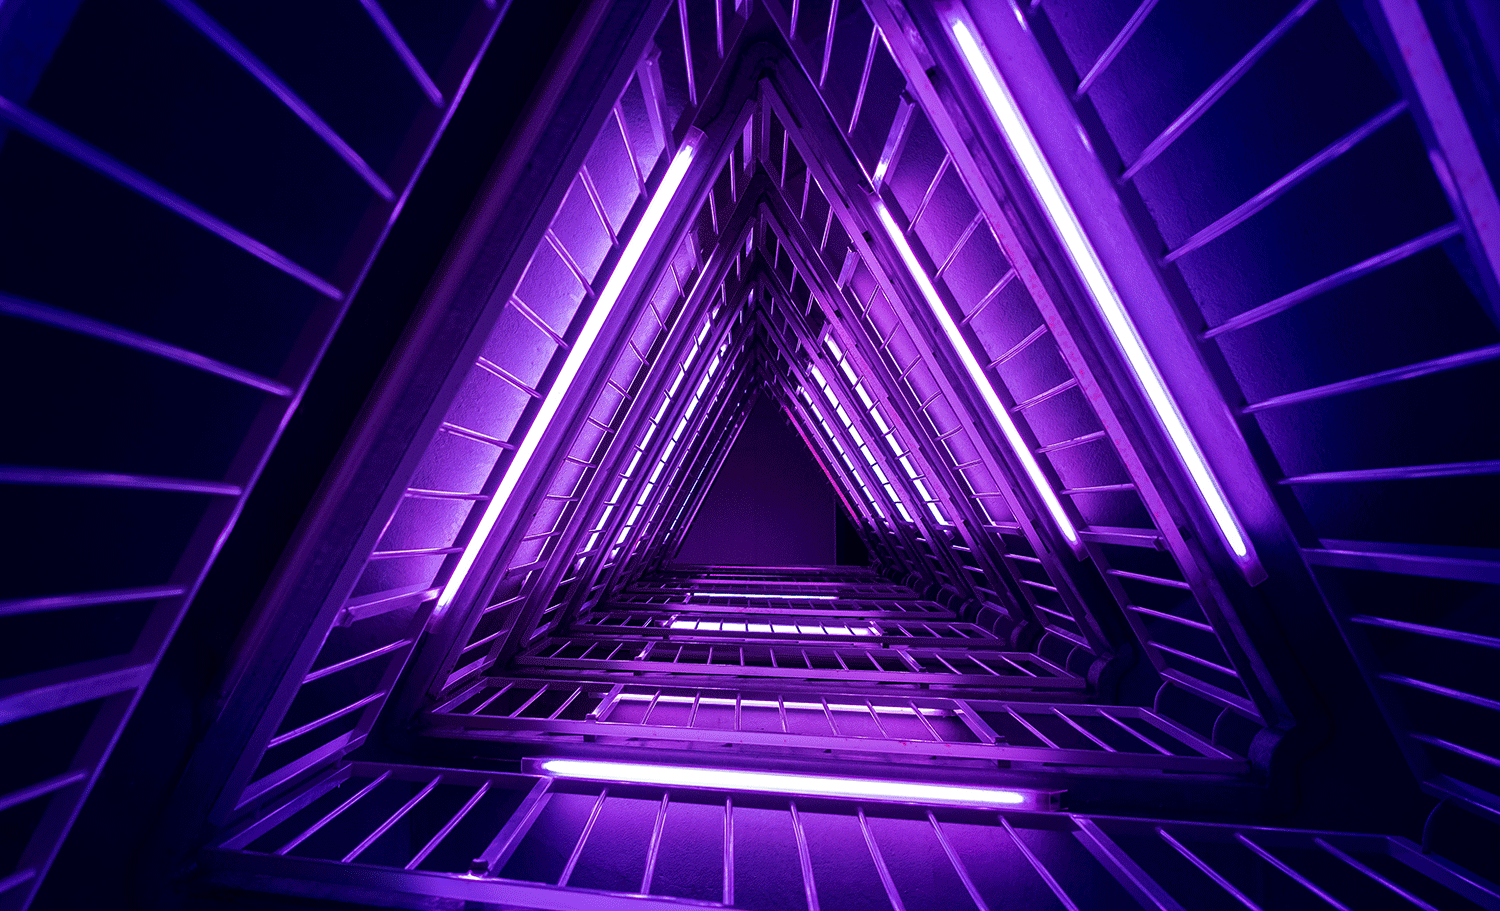
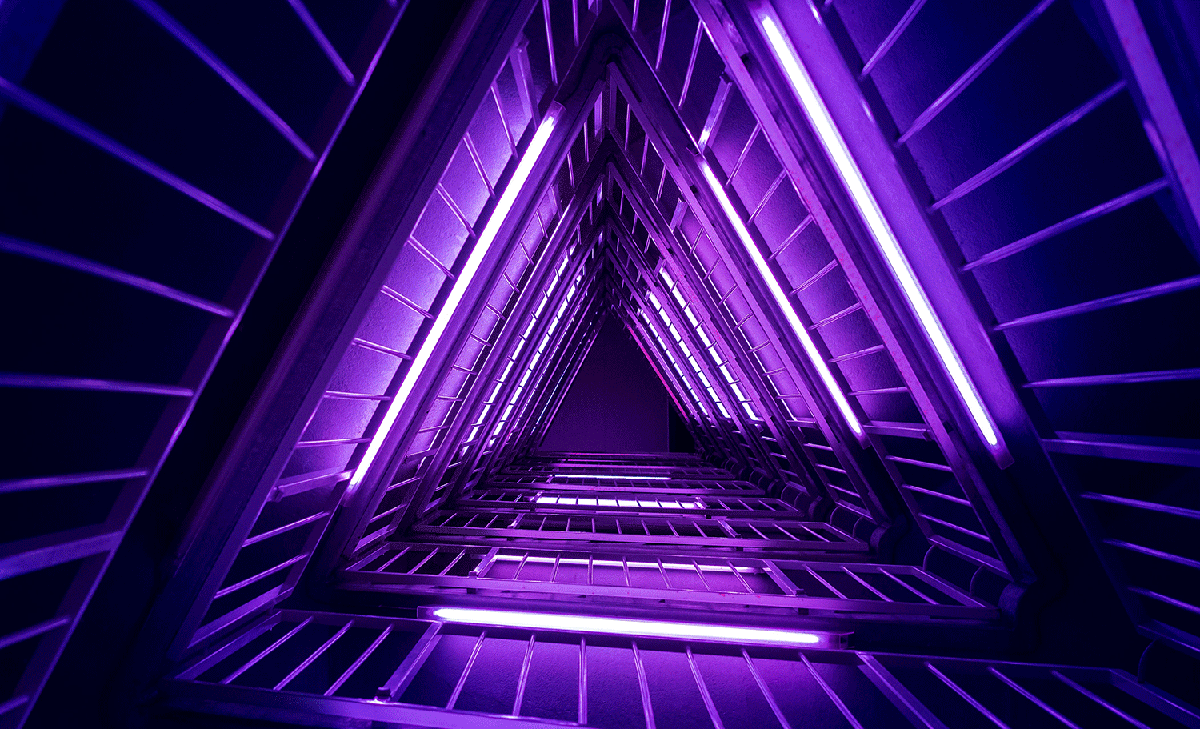
new build, deployed october 8,2020

diff --git a/my-react-website/build/static/js/main.ee2d8bd6.chunk.js b/my-react-website/build/static/js/main.ee2d8bd6.chunk.js
@@ -1,0 +1,2 @@
[1 lines of base64/hex data omitted]
+//# sourceMappingURL=main.ee2d8bd6.chunk.js.map

diff --git a/my-react-website/build/static/css/main.9bfcb8ff.chunk.css b/my-react-website/build/static/css/main.9bfcb8ff.chunk.css
@@ -1,0 +1,2 @@
+@import url(https://fonts.googleapis.com/css2?family=Lobster&family=Roboto&display=swap);@import url(https://fonts.googleapis.com/css2?family=Rock+Salt&display=swap);@import url(https://cdnjs.cloudflare.com/ajax/libs/animate.css/4.1.1/animate.min.css);body{margin:0;-webkit-font-smoothing:antialiased;-moz-osx-font-smoothing:grayscale}code{font-family:source-code-pro,Menlo,Monaco,Consolas,"Courier New",monospace}html{min-height:100%}body{height:100%;font-family:"Roboto",sans-serif;font-size:18px}button{padding:16px;font-size:16px;background-color:#000;color:#fff;border-radius:8px;cursor:pointer}h3,h4{margin-bottom:0}.clearfix{clear:both}.fade-appear,.fade-enter{opacity:0;z-index:1}.fade-appear-active,.fade-enter.fade-enter-active{opacity:1;transition:opacity .5s linear .15s}.fade-exit{opacity:1}.fade-exit.fade-exit-active{opacity:0;transition:opacity .15s linear}#page-body{max-width:950px;min-height:auto;margin:auto;padding:64px 25px 25px}.page-title{font-family:"Rock Salt",cursive;font-size:1.75em;margin-bottom:0;color:#000}.underline{color:#000;text-decoration:none;border-bottom:none;position:relative}.underline:after{content:"";width:100%;position:absolute;left:0;bottom:-1px;height:3px;background:#cc3b8b;background:linear-gradient(90deg,#421575,#cc3b8b)}.projectImg{width:100%;height:300px;object-fit:cover}.grid-container{height:auto;display:grid;grid-template-columns:repeat(auto-fit,minmax(310px,1fr));grid-gap:1rem;padding-bottom:50px;padding-top:0;margin:0 auto}.grid-item{height:467px;max-width:400px;margin:50px auto 0}.project-title{font-family:"Rock Salt",cursive;font-size:1.2em;color:#cc3b8b}.project-desc,.project-title{margin-bottom:20px;text-align:left}.project-desc{height:auto}.project-icon{font-size:25px}.display-none{display:none}.fa-icon{margin:10px;left:-8px;position:relative}a{color:#000}a:hover{color:#cc3b8b}nav ul{list-style-type:none;margin:0;padding:0}nav a{text-decoration:none;color:#000;font-weight:700;padding:16px 32px}nav a:hover{color:#cc3b8b}nav .desktop-nav{text-align:right;position:relative;top:0;width:100%;background:transparent;z-index:99}.logo{margin-left:20px;margin-top:10px}.desktop-li{display:inline-block;padding-top:16px;padding-bottom:16px;list-style:none}.res-menu{font-size:30px;vertical-align:middle;text-align:center;color:#000}.burger-btn{width:50px;height:50px;background:transparent;border:none;display:none;position:fixed;top:0;right:30px;z-index:100}.side-menu{display:block;background-color:#fff;box-shadow:2px 0 5px rgba(0,0,0,.5);width:300px;height:100vh;top:0;right:0;position:fixed;z-index:99;-webkit-transform:translateX(100%);transform:translateX(100%);transition:-webkit-transform .3s ease-out;transition:transform .3s ease-out;transition:transform .3s ease-out,-webkit-transform .3s ease-out}.side-menu.open{-webkit-transform:translateX(0);transform:translateX(0)}.back-drop{position:fixed;width:100%;height:100vh;background:rgba(0,0,0,.8);top:0;right:0;z-index:98;transition:.3s ease-out}.mobile-ul{margin-top:50px}.mobile-li{display:block;padding:20px}@media only screen and (max-width:770px){.burger-btn{display:block}.desktop-nav{display:none}}@media only screen and (min-width:771px){.back-drop,.side-menu{display:none}}.home-container{max-width:895px}.hacky-block{min-height:465px}.title-txt{margin:auto;width:100%;font-size:6vw;text-align:center;color:#000;text-shadow:2px 2px 4px #3b2a32;font-family:"Rock Salt",cursive}.sub-title{font-size:3vw;text-align:center;color:#cc3b8b}.vertical-align-middle{position:absolute;left:25%;top:50%;-webkit-transform:translateY(-50%);transform:translateY(-50%)}.dkNav,.ltNav{color:#000}.square{background-image:linear-gradient(90deg,#cc3b8b,#421575,#cc3b8b,#421575);box-shadow:2px 2px 4px #3b2a32;width:200px;font-size:16px;font-weight:600;color:#fff;cursor:pointer;margin:20px;height:55px;text-align:center;border:none}button:active,button:focus{outline:none}.center-align{text-align:center}.switch-off{text-shadow:0 0 10px #fff,0 0 20px #fff,0 0 30px #f696e0,0 0 40px #f77cd6,0 0 50px #e154b4,0 0 60px #db4292,0 0 70px #cc3b8b;box-shadow:0 0 55px 20px #f77cd6;-webkit-animation:btnGlow 3s ease-in-out infinite alternate;animation:btnGlow 3s ease-in-out infinite alternate}.switch-off,.switch-on{background-size:300% 100%;moz-transition:all .4s ease-in-out;transition:all .4s ease-in-out;border-radius:50px}.switch-off:hover,.switch-on:hover{background-position:100% 0;moz-transition:all .4s ease-in-out;transition:all .4s ease-in-out}.bg-light{position:absolute;top:0;left:0;width:100vw;height:100vh;z-index:0;transition:background-color .5s ease}.light-off{background-color:#000;background-image:url(/static/media/purpleneon.cbc9a051.png);color:#fff}.light-off,.light-on{width:100vw;height:100vh;background-repeat:no-repeat;background-position:50%;background-size:cover}.light-on{background-color:#fff;color:#000;background-image:url(/static/media/whitewall.2ca2f4d3.png)}.textGlow{color:#fff;text-shadow:0 0 10px #fff,0 0 20px #fff,0 0 30px #f696e0,0 0 40px #f77cd6,0 0 50px #e154b4,0 0 60px #db4292,0 0 70px #cc3b8b;-webkit-animation:textGlow 1s ease-in-out infinite;animation:textGlow 1s ease-in-out infinite}@-webkit-keyframes textGlow{0%{text-shadow:0 0 10px #fff,0 0 20px #fff,0 0 30px #f696e0,0 0 40px #f77cd6,0 0 50px #e154b4,0 0 60px #db4292,0 0 70px #cc3b8b}to{text-shadow:0 0 20px #fff,0 0 30px #ff4da6,0 0 40px #ff4da6,0 0 50px #ff4da6,0 0 60px #ff4da6,0 0 70px #ff4da6,0 0 80px #cc3b8b}}@-webkit-keyframes btnGlow{0%{background-color:#fff}20%{background-color:#f696e0}40%{background-color:#f77cd6}60%{background-color:#e154b4}80%{background-color:#db4292}to{background-color:#cc3b8b}}.aboutImg{width:250px;height:250px;border-top-left-radius:50% 50%;border-top-right-radius:50% 50%;border-bottom-right-radius:50% 50%;border-bottom-left-radius:50% 50%;object-fit:cover;display:block;margin:75px auto}.icon-container{margin:75px;text-align:center}.about-icon{font-size:40px;padding:10px;color:#000;margin:0 auto}.about-icon:hover{color:#bd2453}.arch-project-img{width:100%;height:200px;object-fit:cover;background-position:10% 50%}.arch-grid-container{display:grid;grid-template-columns:repeat(auto-fit,minmax(220px,1fr));grid-gap:1rem}footer{height:60px;width:100%;background-color:transparent;color:#767676;text-align:center;position:relative;left:0;bottom:0;right:0;z-index:2}
+/*# sourceMappingURL=main.9bfcb8ff.chunk.css.map */

diff --git a/my-react-website/build/index.html b/my-react-website/build/index.html
@@ -1,3 +1,3 @@
 <!doctype html><html lang="en"><head><meta charset="utf-8"/><link rel="icon" href="/favicon.ico"/><meta name="viewport" content="width=device-width,initial-scale=1"/><meta name="theme-color" content="#000000"/><meta name="description" content="Web site created using create-react-app"/><link rel="apple-touch-icon" href="/logo192.png"/><link rel="manifest" href="/manifest.json"/><title>Portfolio 2020</title><!--[if lt IE 9]>
     <script src="http://html5shim.googlecode.com/svn/trunk/html5.js"></script>
-    <![endif]--><link href="/static/css/main.9cbaf2a1.chunk.css" rel="stylesheet"></head><body><noscript>You need to enable JavaScript to run this app.</noscript><div id="root"></div><script>!function(e){function t(t){for(var n,i,l=t[0],a=t[1],f=t[2],p=0,s=[];p<l.length;p++)i=l[p],Object.prototype.hasOwnProperty.call(o,i)&&o[i]&&s.push(o[i][0]),o[i]=0;for(n in a)Object.prototype.hasOwnProperty.call(a,n)&&(e[n]=a[n]);for(c&&c(t);s.length;)s.shift()();return u.push.apply(u,f||[]),r()}function r(){for(var e,t=0;t<u.length;t++){for(var r=u[t],n=!0,l=1;l<r.length;l++){var a=r[l];0!==o[a]&&(n=!1)}n&&(u.splice(t--,1),e=i(i.s=r[0]))}return e}var n={},o={1:0},u=[];function i(t){if(n[t])return n[t].exports;var r=n[t]={i:t,l:!1,exports:{}};return e[t].call(r.exports,r,r.exports,i),r.l=!0,r.exports}i.m=e,i.c=n,i.d=function(e,t,r){i.o(e,t)||Object.defineProperty(e,t,{enumerable:!0,get:r})},i.r=function(e){"undefined"!=typeof Symbol&&Symbol.toStringTag&&Object.defineProperty(e,Symbol.toStringTag,{value:"Module"}),Object.defineProperty(e,"__esModule",{value:!0})},i.t=function(e,t){if(1&t&&(e=i(e)),8&t)return e;if(4&t&&"object"==typeof e&&e&&e.__esModule)return e;var r=Object.create(null);if(i.r(r),Object.defineProperty(r,"default",{enumerable:!0,value:e}),2&t&&"string"!=typeof e)for(var n in e)i.d(r,n,function(t){return e[t]}.bind(null,n));return r},i.n=function(e){var t=e&&e.__esModule?function(){return e.default}:function(){return e};return i.d(t,"a",t),t},i.o=function(e,t){return Object.prototype.hasOwnProperty.call(e,t)},i.p="/";var l=this["webpackJsonpmy-react-website"]=this["webpackJsonpmy-react-website"]||[],a=l.push.bind(l);l.push=t,l=l.slice();for(var f=0;f<l.length;f++)t(l[f]);var c=a;r()}([])</script><script src="/static/js/2.d9efbc21.chunk.js"></script><script src="/static/js/main.feb8888c.chunk.js"></script></body></html>
+    <![endif]--><link href="/static/css/main.9bfcb8ff.chunk.css" rel="stylesheet"></head><body><noscript>You need to enable JavaScript to run this app.</noscript><div id="root"></div><script>!function(e){function t(t){for(var n,i,l=t[0],a=t[1],f=t[2],p=0,s=[];p<l.length;p++)i=l[p],Object.prototype.hasOwnProperty.call(o,i)&&o[i]&&s.push(o[i][0]),o[i]=0;for(n in a)Object.prototype.hasOwnProperty.call(a,n)&&(e[n]=a[n]);for(c&&c(t);s.length;)s.shift()();return u.push.apply(u,f||[]),r()}function r(){for(var e,t=0;t<u.length;t++){for(var r=u[t],n=!0,l=1;l<r.length;l++){var a=r[l];0!==o[a]&&(n=!1)}n&&(u.splice(t--,1),e=i(i.s=r[0]))}return e}var n={},o={1:0},u=[];function i(t){if(n[t])return n[t].exports;var r=n[t]={i:t,l:!1,exports:{}};return e[t].call(r.exports,r,r.exports,i),r.l=!0,r.exports}i.m=e,i.c=n,i.d=function(e,t,r){i.o(e,t)||Object.defineProperty(e,t,{enumerable:!0,get:r})},i.r=function(e){"undefined"!=typeof Symbol&&Symbol.toStringTag&&Object.defineProperty(e,Symbol.toStringTag,{value:"Module"}),Object.defineProperty(e,"__esModule",{value:!0})},i.t=function(e,t){if(1&t&&(e=i(e)),8&t)return e;if(4&t&&"object"==typeof e&&e&&e.__esModule)return e;var r=Object.create(null);if(i.r(r),Object.defineProperty(r,"default",{enumerable:!0,value:e}),2&t&&"string"!=typeof e)for(var n in e)i.d(r,n,function(t){return e[t]}.bind(null,n));return r},i.n=function(e){var t=e&&e.__esModule?function(){return e.default}:function(){return e};return i.d(t,"a",t),t},i.o=function(e,t){return Object.prototype.hasOwnProperty.call(e,t)},i.p="/";var l=this["webpackJsonpmy-react-website"]=this["webpackJsonpmy-react-website"]||[],a=l.push.bind(l);l.push=t,l=l.slice();for(var f=0;f<l.length;f++)t(l[f]);var c=a;r()}([])</script><script src="/static/js/2.d9efbc21.chunk.js"></script><script src="/static/js/main.ee2d8bd6.chunk.js"></script></body></html>

diff --git a/my-react-website/src/components/DesignProjectList.js b/my-react-website/src/components/DesignProjectList.js
@@ -13,9 +13,9 @@ const DesignProjectList = ({ designProjects }) => (
         <img className="projectImg" src={designProjects.image} alt={designProjects.alt}/>
         <h3 className="project-title">{designProjects.title}</h3>
         <p className="project-desc">{designProjects.content[0]}</p>
-        <a className={designProjects.codepen == '' ? "display-none" : "fa-icon project-icon" } target="_blank" rel="noopener noreferrer" aria-label="Codepen external link" href={designProjects.codepen}><FontAwesomeIcon icon={faCodepen} /></a>
-        <a className={designProjects.dribbble == '' ? "display-none" : "fa-icon project-icon" } target="_blank" rel="noopener noreferrer" aria-label="Dribble external link" href={designProjects.dribbble}><FontAwesomeIcon icon={faDribbble} /></a>
-        <a className={designProjects.github == '' ? "display-none" : "fa-icon project-icon" } target="_blank" rel="noopener noreferrer" aria-label="Codepen external link" href={designProjects.github}><FontAwesomeIcon icon={faGithubAlt} /></a>
+        <a className={designProjects.codepen === '' ? "display-none" : "fa-icon project-icon" } target="_blank" rel="noopener noreferrer" aria-label="Codepen external link" href={designProjects.codepen}><FontAwesomeIcon icon={faCodepen} /></a>
+        <a className={designProjects.dribbble === '' ? "display-none" : "fa-icon project-icon" } target="_blank" rel="noopener noreferrer" aria-label="Dribble external link" href={designProjects.dribbble}><FontAwesomeIcon icon={faDribbble} /></a>
+        <a className={designProjects.github === '' ? "display-none" : "fa-icon project-icon" } target="_blank" rel="noopener noreferrer" aria-label="Codepen external link" href={designProjects.github}><FontAwesomeIcon icon={faGithubAlt} /></a>
       </div>
     </section>
 

diff --git a/my-react-website/build/precache-manifest.dc34eb9ace4df421b1069304644b598b.js b/my-react-website/build/precache-manifest.dc34eb9ace4df421b1069304644b598b.js
@@ -1,11 +1,11 @@
 self.__precacheManifest = (self.__precacheManifest || []).concat([
   {
-    "revision": "d935c9daac422506f081ea30d9294395",
+    "revision": "50c0246692e27c93948ee16edbebdca1",
     "url": "/index.html"
   },
   {
-    "revision": "d0c0b795da5e027cfb0d",
-    "url": "/static/css/main.9cbaf2a1.chunk.css"
+    "revision": "8eedb3ca000c32771a36",
+    "url": "/static/css/main.9bfcb8ff.chunk.css"
   },
   {
     "revision": "c7db18537cc6d3591d69",
@@ -16,8 +16,8 @@ self.__precacheManifest = (self.__precacheManifest || []).concat([
     "url": "/static/js/2.d9efbc21.chunk.js.LICENSE.txt"
   },
   {
-    "revision": "d0c0b795da5e027cfb0d",
-    "url": "/static/js/main.feb8888c.chunk.js"
+    "revision": "8eedb3ca000c32771a36",
+    "url": "/static/js/main.ee2d8bd6.chunk.js"
   },
   {
     "revision": "40e62b8a60612a764242",
@@ -60,15 +60,15 @@ self.__precacheManifest = (self.__precacheManifest || []).concat([
     "url": "/static/media/pokemon.aeccf9e3.png"
   },
   {
-    "revision": "ab9393813073b877175bcd837949257f",
-    "url": "/static/media/purpleneon.ab939381.png"
+    "revision": "cbc9a05174f6d336663137d4c9b4f090",
+    "url": "/static/media/purpleneon.cbc9a051.png"
   },
   {
     "revision": "b0e5a42324de7fa9da4273087ae39666",
     "url": "/static/media/purplewall.b0e5a423.png"
   },
   {
-    "revision": "6c17f078e0ef72993aa22ad4d47be79e",
-    "url": "/static/media/whitewall.6c17f078.png"
+    "revision": "2ca2f4d3ebb615e82443b3dc5f4a2627",
+    "url": "/static/media/whitewall.2ca2f4d3.png"
   }
 ]);

diff --git a/my-react-website/src/pages/DesignProjectContent.js b/my-react-website/src/pages/DesignProjectContent.js
@@ -6,7 +6,7 @@ const designProjects = [
         alt: 'Icon set with 12 different kinds of bubble tea.',
         codepen: '',
         dribbble: 'https://dribbble.com/shots/13942532-BubbleTea-Icon-Set',
-        github: '',
+        github: 'https://github.com/meglaurie/SVG-Bubble-tea-icons',
         content: [
             `PNG and SVG icon set made using Sketch. Available for free download on Github.`,
         ]

diff --git a/my-react-website/build/service-worker.js b/my-react-website/build/service-worker.js
@@ -14,7 +14,7 @@
 importScripts("https://storage.googleapis.com/workbox-cdn/releases/4.3.1/workbox-sw.js");
 
 importScripts(
-  "/precache-manifest.873d2725fbf20ef350a084a2064fb678.js"
+  "/precache-manifest.dc34eb9ace4df421b1069304644b598b.js"
 );
 
 self.addEventListener('message', (event) => {
